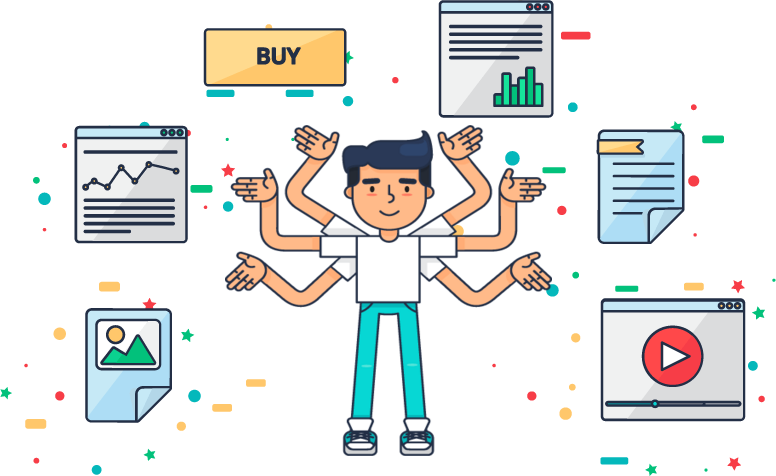
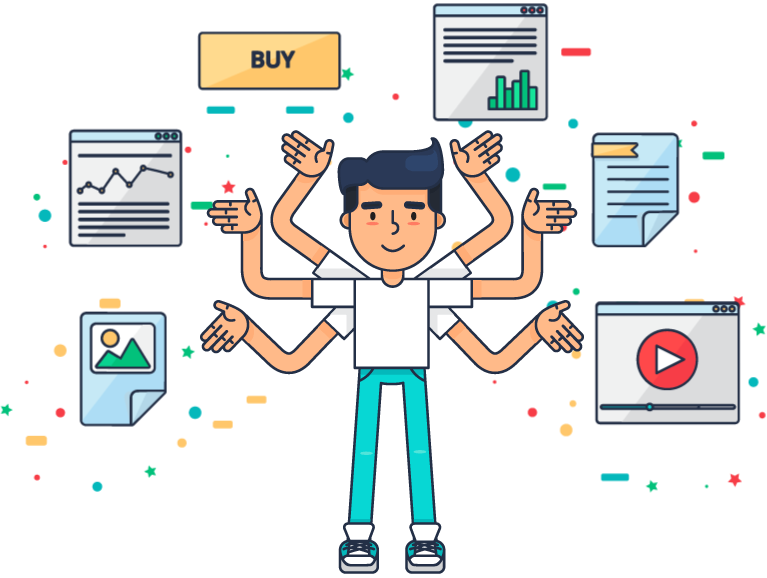
adaptability mainInfo and replace images

diff --git a/src/components/HomePage/MainInfo/Slider/SlideWeb.js b/src/components/HomePage/MainInfo/Slider/SlideWeb.js
@@ -2,9 +2,7 @@ import React from "react";
 import { StaticImage } from "gatsby-plugin-image";
 import { AnchorLink } from "gatsby-plugin-anchor-links";
 import { route } from "../../../../routes";
-
 import CustomButton from "../../../common/CustomButton/CustomButton";
-
 
 
 const SlideWeb = () => {
@@ -12,17 +10,17 @@ const SlideWeb = () => {
     return (
         <div className={'relative min-h-screen sm:flex items-center'}>
             <div className={'w-full h-full absolute z-[-10]'}>
-                <StaticImage className={'w-full h-full'} src={'../../../../assets/images/main-info/slide-web/slide-bg.jpg'} alt={'main-bg'} loading={'lazy'} quality={100} />
+                <StaticImage className={'w-full min- h-full'} src={'../../../../assets/images/main-info/slide-web/slide-bg.jpg'} alt={'main-bg'} loading={'lazy'} quality={100} />
             </div>
 
-            <div className={'relative flex xl:w-[1170px] xl:m-auto px-10 pt-28 sm:pt-0'}>
-                <div>
+            <div className={'container flex flex-col lg:flex-row lg:gap-10 mx-auto px-5 pt-20 sm:pt-0'}>
+                <div className={'mb-10 lg:mb-0 sm:mt-20 lg:mt-0 xl:mt-14 text-center lg:text-left'}>
                     <div className={'flex flex-col justify-start sm:mt-0'}>
                         <h4 className={'text-[15px] sm:text-[22px] font-bold uppercase leading-none mb-3'}>Hundreds of<br />international projects</h4>
-                        <div className={'text-[55px] sm:text-[100px] uppercase text-white leading-none font-bold mb-3'}>
+                        <div className={'text-[55px] sm:text-[80px] lg:text-[100px] uppercase text-white leading-none font-bold mb-3'}>
                             Websites
                         </div>
-                        <p className={'text-white mb-10 text-[14px] sm:text-[22px]'}>and web applications of any complexity</p>
+                        <p className={'text-white mb-5 text-[14px] sm:text-[22px]'}>and web applications of any complexity</p>
                         <AnchorLink to={route('home.portfolio')}>
                             <CustomButton classNameButton={'bg-white border-white !text-[#24d5d1] hover:!text-white hover:!bg-[#24d5d1]'}>
                                 View Portfolio
@@ -31,18 +29,9 @@ const SlideWeb = () => {
                     </div>
                 </div>
 
-                <div className={'sm:mr-10'}>
-                    <div className={'absolute bottom-[-320px] sm:top-[-20px] left-0 sm:left-auto right-0 sm:right-auto xl:right-0 w-[300px] lg:w-[380px] xl:w-[430px] m-auto'}>
-                        <StaticImage src={'../../../../assets/images/main-info/slide-web/comp.png'} alt={'phone'} loading={'lazy'} quality={100} />
-                    </div>
-                    <div className={'absolute bottom-[-425px] sm:bottom-[-215px] right-1/2 sm:right-0 xl:right-1/4 w-[180px] xl:w-[230px]'}>
-                        <StaticImage src={'../../../../assets/images/main-info/slide-web/pad.png'} alt={'phone'} loading={'lazy'} quality={100} />
-                    </div>
-                    <div className={'absolute bottom-[-450px] sm:bottom-[-230px] right-[135px] sm:right-0 xl:right-[220px] w-[85px] xl:w-[110px]'}>
-                        <StaticImage src={'../../../../assets/images/main-info/slide-web/phone.png'} alt={'phone'} loading={'lazy'} quality={100} />
-                    </div>
+                <div>
+                <StaticImage src={'../../../../assets/images/main-info/slide-web/group.png'} alt={'phone'} loading={'lazy'} quality={100} objectFit='contain' className={'sm:max-h-[350px] lg:max-h-max'} />
                 </div>
-
             </div>
 
         </div>

diff --git a/src/components/HomePage/MainInfo/Slider/SlideMobileApp.js b/src/components/HomePage/MainInfo/Slider/SlideMobileApp.js
@@ -5,20 +5,19 @@ import { AnchorLink } from "gatsby-plugin-anchor-links";
 import CustomButton from "../../../common/CustomButton/CustomButton";
 
 
-
 const SlideMobileApp = () => {
 
     return (
-        <div className={'relative min-h-screen sm:flex sm:items-center'}>
+        <div className={'relative min-h-screen sm:flex xl:items-center'}>
             <div className={'w-full h-full absolute z-[-10]'}>
                 <StaticImage className={'w-full h-full'} src={'../../../../assets/images/main-info/slide-mob-app/slide-bg.jpg'} alt={'main-bg'} loading={'lazy'} quality={100} />
             </div>
-            <div className={'xl:w-[1170px] xl:m-auto pl-10 pt-28 sm:pt-0'}>
-                <div className={'flex flex-col justify-start sm:mt-0'}>
+            <div className={'container mx-auto pl-5 pt-20 sm:pt-28'}>
+                <div className={'flex flex-col justify-start xl:mb-10'}>
                     <h4 className={'text-[18px] sm:text-[20px] font-bold uppercase leading-none mb-3'}>10 years of <br /> successful work</h4>
                     <div className={'uppercase text-white leading-none font-bold mb-3'}>
-                        <span className={'text-[60px] sm:text-[100px]'}>mobile</span><br />
-                        <span className={'text-[40px] sm:text-[80px]'}>applications</span>
+                        <span className={'text-[60px] sm:text-[80px] lg:text-[100px]'}>mobile</span><br />
+                        <span className={'text-[40px] sm:text-[60px] lg:text-[80px]'}>applications</span>
                     </div>
                     <p className={'text-white mb-5 sm:mb-10 text-[15px] sm:text-[17px]'}>native mobile apps iOS, Android</p>
                     <AnchorLink to={route('home.portfolio')}>
@@ -28,7 +27,7 @@ const SlideMobileApp = () => {
                     </AnchorLink>
                 </div>
             </div>
-            <div className={'absolute right-[-65px] sm:right-[10%] bottom-[-30px] -z-10 w-[350px] sm:w-[400px] xl:w-[470px]'}>
+            <div className={'absolute right-[-65px] sm:right-0 lg:right-[10%] bottom-[-30px] -z-10 w-[350px] sm:w-[400px] lg:w-[470px]'}>
                 <StaticImage src={'../../../../assets/images/main-info/slide-mob-app/phone.png'} alt={'phone'} loading={'lazy'} quality={100} />
             </div>
         </div>

diff --git a/src/components/IndoorNavigationPage/MainInfo/MainInfo.js b/src/components/IndoorNavigationPage/MainInfo/MainInfo.js
@@ -30,7 +30,7 @@ const MainInfo = () => {
                     layout="fullWidth" alt="Background" className={'inset-0 w-full h-full'} loading={'lazy'} quality={100} objectFit="fill"
                 />
             </div>
-            <div className={'container relative mt-[100px] m-auto md:mt-auto z-10 uppercase'}>
+            <div className={'container relative mt-[100px] mx-auto md:mt-auto z-10 uppercase'}>
                 <div className={'xl:mb-10 sm:px-20 md:px-0'}>
                     <div className={'mb-5 flex gap-3 xl:gap-0'}>
                         {icons.map((icon, index) => {
@@ -54,7 +54,7 @@ const MainInfo = () => {
                 </div>
             </div>
            
-            <div className={'container absolute bottom-4 xl:bottom-7 left-0 right-0 m-auto hidden md:block'}>
+            <div className={'container absolute bottom-4 xl:bottom-7 left-0 right-0 mx-auto hidden md:block'}>
                 <div className={'flex justify-between mt-auto uppercase text-[10px] lg:text-[12px] xl:text-[16px] text-[#24D5D1] font-light'}>
                     {purposes.map((purpose, index) => {
                         return <span key={`${index}-purpose`}>{purpose}</span>

diff --git a/src/components/HomePage/MainInfo/Slider/SlideSolutions.js b/src/components/HomePage/MainInfo/Slider/SlideSolutions.js
@@ -5,7 +5,6 @@ import { route } from "../../../../routes";
 import CustomButton from "../../../common/CustomButton/CustomButton";
 
 
-
 const SlideSolutions = () => {
 
     return (
@@ -13,7 +12,7 @@ const SlideSolutions = () => {
             <div className={'w-full h-full absolute z-[-10]'}>
                 <StaticImage className={'w-full h-full'} src={'../../../../assets/images/main-info/slide-solutions/slide-bg.jpg'} alt={'main-bg'} loading={'lazy'} quality={100} />
             </div>
-            <div className={'xl:w-[1170px] m-auto'}>
+            <div className={'container mx-auto'}>
                 <div className={'text-center leading-none'}>
                     <h4 className={'text-[16px] sm:text-[22px] font-bold uppercase mb-3'}>dozens of regulars customers</h4>
                     <div className={'text-[48px] sm:text-[80px] uppercase text-white font-bold mb-3'}>

diff --git a/src/components/IndoorNavigationPage/WhyChooseUs/WhyChooseUs.js b/src/components/IndoorNavigationPage/WhyChooseUs/WhyChooseUs.js
@@ -9,7 +9,7 @@ const WhyChooseUs = () => {
             <div className={'h-full hidden md:block'}>
                 <StaticImage src={'../../../assets/images/indoor-navigation/why-choose-us/choose-bg.png'} alt="background" objectFit="contain" className={''} />
             </div>
-            <div className={'container m-auto z-10 px-5 md:px-10 pt-14 md:pt-0'}>
+            <div className={'container mx-auto z-10 px-5 md:px-10 pt-14 md:pt-0'}>
                 <div className={'z-10 text-white max-w-[700px]'}>
                     <h1 className={'text-[26px] md:text-[23px] xl:text-[36px] mb-14 relative after:absolute after:w-14 after:h-0.5 after:md:h-[3px] after:bg-[#24d5d1] after:left-0 after:-bottom-6'}>Why choose us?</h1>
                     <p className={'text-[15px] md:text-[11px] xl:text-[16px] mb-5 '}>

diff --git a/src/components/IndoorNavigationPage/PremisesForPlatform/PremisesForPlatform.js b/src/components/IndoorNavigationPage/PremisesForPlatform/PremisesForPlatform.js
@@ -37,7 +37,7 @@ const PremisesForPlatform = () => {
                 />
             </div>
 
-            <div className={'container m-auto py-14 lg:py-32 px-7 md:px-5 z-10'}>
+            <div className={'container mx-auto py-14 lg:py-32 px-7 md:px-5 z-10'}>
                 <h1 className={'text-left md:text-center text-[21px] md:text-[23px] xl:text-[40px] mb-14 md:mb-24 font-light text-white leading-none relative after:absolute  after:w-8 after:md:w-14 after:h-[3px] after:bg-white after:sm:m-auto after:left-0 after:right-0 after:-bottom-5 after:md:-bottom-10'}>What premises the Platform can be implemented in?</h1>
                 <div className={'grid grid-cols-2 md:grid-cols-7 gap-y-5 gap-2 text-center'}>
                     {premises.map(premise => {

diff --git a/src/components/QAPage/MainInfo/MainInfo.js b/src/components/QAPage/MainInfo/MainInfo.js
@@ -14,7 +14,7 @@ const MainInfo = () => {
                 <StaticImage src={'../../../assets/images/qa/quality-mobile.jpg'} layout="fullWidth" alt="Background" className={'inset-0 w-full h-full'} loading={'lazy'} quality={100} objectFit="fill" />
             </div>
 
-            <div className={'relative max-w-[1170px] w-full px-5 lg:pl-20 mb-36 sm:mb-28 lg:m-auto flex justify-center lg:justify-start text-center lg:text-left'}>
+            <div className={'relative container px-5 lg:pl-20 mb-36 sm:mb-28 mx-auto flex justify-center lg:justify-start text-center lg:text-left'}>
                 <h1 className={'text-[42px] sm:text-[56px] text-white uppercase font-extrabold leading-[1.1]'}>quality <br /> assurance</h1>
             </div>
 

diff --git a/src/components/ShopifyPage/MainInfo/MainInfo.js b/src/components/ShopifyPage/MainInfo/MainInfo.js
@@ -15,7 +15,7 @@ const MainInfo = () => {
                         layout="fullWidth" alt="Background" className={'inset-0 w-full h-full'} loading={'lazy'} quality={100} objectFit="cover"
                     />
                 </div>
-                <div className={'container mx-auto z-50 flex flex-col-reverse md:flex-row justify-between gap-5 mb-3 sm:mb-10 mt-20 md:mt-28 2xl:mt-40'}>
+                <div className={'container mx-auto z-50 flex flex-col-reverse md:flex-row justify-between gap-5 mb-3 sm:mb-5 mt-20 md:mt-28 2xl:mt-40'}>
                     <div className={'hidden md:block 2xl:pt-20'}>
                         <Info />
                     </div>

diff --git a/src/components/HomePage/AboutUs/AboutUs.js b/src/components/HomePage/AboutUs/AboutUs.js
@@ -7,7 +7,7 @@ import CustomTitleComponent from "../../common/CustomTitleComponent/CustomTitleC
 const AboutUs = () => {
 
     return (
-        <div id="AboutUs" className={'flex flex-col text-center max-w-[1170px] m-auto px-5 pt-5 mb-20'}>
+        <div id="AboutUs" className={'container flex flex-col text-center mx-auto px-5 pt-5 mb-20'}>
             <span className={'text-[20px] text-[#A6A6A6] mb-5'}>Briefly About us</span>
             <CustomTitleComponent name='We are technology solutions company' />
             <strong className={'text-[14px] xl:text-[16px] text-[#3E3E3E] font-semibold mb-8'}>Our specialization is software development.</strong>

diff --git a/src/components/HomePage/ContactUsForm/ContactUsForm.js b/src/components/HomePage/ContactUsForm/ContactUsForm.js
@@ -14,7 +14,7 @@ const ContactUsForm = () => {
             <div className="absolute h-full w-full text-center -z-10">
                 <StaticImage src={'../../../assets/images/contact-us-form/contact-us.jpg'} class={'h-full'} alt="background" />
             </div>
-            <div className={'py-20 z-50 max-w-[1170px] xl:min-w-[1170px]'}>
+            <div className={'container py-20 z-50'}>
                 <div className={''}>
                     <CustomTitleComponent name='Contact Us' />
                     <div className={'flex flex-col lg:flex-row items-start lg:items-center mt-14 sm:mt-28 mb-10'}>

diff --git a/src/components/IndoorNavigationPage/Advantages/Advantages.js b/src/components/IndoorNavigationPage/Advantages/Advantages.js
@@ -30,7 +30,7 @@ const Advantages = () => {
     const subTitleVisitor = '(user of the system):'
 
     return (
-        <div className={'container m-auto mb-28 px-5'}>
+        <div className={'container mx-auto mb-28 px-5'}>
             <h1 className={'relative mb-20 text-[23px] xl:text-[40px] font-light text-[#48494e] after:absolute after:w-14 after:h-[3px] after:bg-[#24d5d1] after:left-0  after:-bottom-8'}>Advantages</h1>
             <div className={'grid md:grid-cols-2 gap-12 md:gap-20'}>
                 <TemplateItem advantages={owner} title={titleOwen} subTitle ={subTitleOwen}/>

diff --git a/src/components/HomePage/OurServices/OurServices.js b/src/components/HomePage/OurServices/OurServices.js
@@ -79,7 +79,7 @@ const OurServices = ()=> {
     
 
     return (
-        <div className={'container m-auto mb-10 md:mb-20 px-5 md:px-10'} id="OurServices">
+        <div className={'container mx-auto mb-10 md:mb-20 px-5 md:px-10'} id="OurServices">
             <CustomTitleComponent name='Our Services' />
             <p className={'text-center m-auto text-[16px] md:text-[24px] xl:text-[26px] max-w-[900px] mt-5 mb-20'}>Web Application Development, Mobile Application Development, Software Quality Assurance, Consultancy services.</p>
             <div className=" flex flex-col gap-10">
